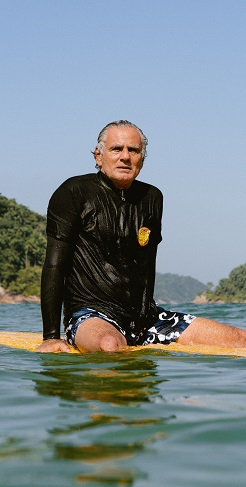
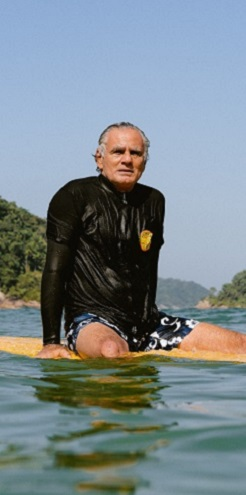
.

diff --git a/conteúdo.html b/conteúdo.html
@@ -30,8 +30,8 @@
                         </div>
 
                         <!-- Menos de 549px -->
-                        <div class="container-img-549px">
-                            <h1><img src="imagens/Guilherme cel.jpg" alt=""></h1>
+                        <div class="container-centro">
+                            <img src="imagens/Guilherme cel.jpg" alt="Guilherme">
                         </div>
                         <!-- ------------ -->
 
@@ -97,12 +97,13 @@
                     </div>
 
                     <!-- Menos de 549px -->
-                    <div class="container-ladoD">
-                        <h1><img src="imagens/campeonato lado D.jpg" alt="camp"></h1>
-                    </div>
                     <div class="container-espaço">
-                        <br></br>
+                        <br>
                     </div>
+                    <div class="container-ladoD">
+                        <img src="imagens/campeonato lado D.jpg" alt="camp">
+                    </div>
+                    
 
                     <!-- --------------------------------------------- -->
 
@@ -124,12 +125,11 @@
                     <div class="container-lateralE">
                         <p><strong>Se você quisesse surfar, teria <br>de fazer sua própria parafina, <br>não existia loja de surfe e nem muitos recursos relacionados ao esporte.</p>
                         <p><a href="https://www.instagram.com/fuad.mansur/#">Fuad</a> queria
-                        surfar, e juntamente de seus irmãos (<a href="https://www.instagram.com/fuwaxriodejaneiro/#">Wady</a> e <a href="https://www.instagram.com/eliasmansurf/?igshid=MzRIODBINWFIZA%3D%3D#">Elias</a>), começaram a fazer parafina como todo mundo que fosse entrar no mar com uma <br>prancha qualquer.</p>
+                        surfar, e juntamente de seus irmãos (<a href="https://www.instagram.com/fuwaxriodejaneiro/#">Wady</a> e <a href="https://www.instagram.com/eliasmansurf/?igshid=MzRIODBINWFIZA%3D%3D#">Elias</a>), começaram a fazer parafina como todo mundo que fosse entrar <br>no mar com uma <br>prancha qualquer.</p>
                     </div>
                     <div class="container-espaço">
-                        <br><br>
-                        </br>
-                        </div>
+                        <br>
+                    </div>
                     <div class="container-figGD1">
                         <figcaption>Campeonato estadual</figcaption>
                     </div>
@@ -197,7 +197,7 @@
                             <br>
                         </div>
                         <div class="container-centro">
-                            <p><strong><a href="https://www.instagram.com/fuad.mansur/#">Fuad</a> com sua obsessão pelo surfe, o fez determinado <br>em criar uma parafina superior, decidido a consultar um químico sobre a situação.</strong></p>
+                            <p><strong><a href="https://www.instagram.com/fuad.mansur/#">Fuad</a> com sua obsessão pelo surfe, o fez determinado <br>em criar uma parafina superior, <br>decidido a consultar um químico sobre a situação.</strong></p>
                         </div>
                         <div class="container-espaço">
                             <br>
@@ -254,8 +254,8 @@
 
                     <!-- Menos de 549px -->
                     <div class="container-centro">
-                        <p><strong>O profissional falou a respeito de um material secreto <br>que deveria ser testado na criação de sua parafina; resultando em um novo caminho pro jovem, <br>fazendo uma surf wax mais adequada <br>(porém não perfeita).</strong></p>
-                        <p><strong>além de impulsionado à inventar a marca "<a href="https://www.instagram.com/fu.wax/#">Fu Wax</a>" <br>e também, de abrir a primeira loja de surf do Brasil ("Mansurf").</strong></p>
+                        <p><strong>O profissional falou a respeito de um material secreto <br>que deveria ser testado na criação de sua parafina; <br>resultando em um novo caminho pro jovem, <br>fazendo uma surf wax mais adequada <br>(porém não perfeita).</strong></p>
+                        <p><strong>além de impulsionado à inventar a marca "<a href="https://www.instagram.com/fu.wax/#">Fu Wax</a>" <br>e também, de abrir a primeira loja de surf do Brasil <br>("Mansurf").</strong></p>
                     </div>
                     <div class="container-espaço">
                         <br></br>
@@ -301,10 +301,10 @@
 
                     <!-- Menos de 549px -->
                     <div class="container-ladoD">
-                        <h1><img src="imagens/Família.jpeg" alt="Família Mansur"></h1>
+                        <img src="imagens/Família.jpeg" alt="Família Mansur">
                     </div>
                     <div class="container-espaço">
-                        <br></br>
+                        <br>
                     </div>
 
                     <!-- -------------------------- -->
@@ -336,7 +336,7 @@
                         <br></br>
                     </div>
                     <div class="container-ladoE">
-                        <img src="imagens/Fuad surfando 2 cel.jpg" alt="Fuad Mansur">
+                        <img src="imagens/Fuad surfando 2.1 cel.jpg" alt="Fuad Mansur">
                     </div>
                     <div class="container-espaço">
                         <br></br>
@@ -503,7 +503,7 @@
                         <br>
                     </div>
                     <div class="container-centro">
-                        <h1><img src="imagens/aderência levada a sério cel.jpg" alt="camiseta"></h1>
+                        <img src="imagens/aderência levada a sério cel 2.jpg" alt="camiseta">
                     </div>
                     <div class="container-figGC3">
                         <figcaption> <a href="https://www.instagram.com/fu.wax/#"><u>Fu Wax</u></a> em colaboração com a <a href="https://www.billabong.com.br/masculino/vestuario/camiseta?&utm_source=google&utm_medium=Google_Branded_Billabong_Camisetasgclid=Cj0KCQjw7uSkBhDGARIsAMCZNJu_B9D71Kr2GOXzbHvSDQiGa9m94lq27spTUWXHAED9BsK_OJQ-9dsaAv_aEALw_wcB"><u>Billabong</u></a></figcaption>
@@ -760,6 +760,9 @@
                         <p><strong>Após ouvir rumores de <a href="https://www.instagram.com/tajamos/?hl=pt#">Taj</a>, <br>começou à optar pela Fu Wax, <br>através de recomendações do fenômeno <a href="https://www.instagram.com/koloheandino24/#">Kolohe</a>.</strong></p>
                         <p><strong>(<em class="filho4">"It`s so good, it feels like it`s just goo`ing everywhere!"</em>)</strong></p>
                     </div>
+                    <div class="container-espaço">
+                        <br>
+                    </div>
                     <div class="container-figGE4">
                         <figcaption><a href="https://www.instagram.com/koloheandino24/#"><u>Kolohe</u></a></figcaption>
                     </div>
@@ -788,6 +791,9 @@
                     </div>
                     <div class="container-centro">
                         <img src="imagens/Guilherme no caldeirão.jpg" alt="">
+                    </div>
+                    <div class="container-figGC4">
+                        <figcaption><a href="https://www.instagram.com/guimansurf/?hl=pt#"><u>Guilherme</u></a></figcaption>
                     </div>
                     <div class="container-espaço">
                         <br>
@@ -962,7 +968,7 @@
 
                     <!-- Menos de 549px -->
                     <div class="container-centro">
-                        <p>Existem <a href="cont.html">6 tipos</a> de Fu Wax (7 contando com a <a href="conteúdoSkinPack.html">Skin Pack</a>), feitas pelas mãos de apenas 3 pessoas: <br>fundador <a href="https://www.instagram.com/fuad.mansur/#">Fuad</a>, irmão <a href="https://www.instagram.com/tuca_mansur/?igshid=MzRIODBINWFIZA%3D%3D#">Tuca</a> e filho <a href="https://www.instagram.com/guimansurf/?hl=pt#">Guilherme</a> <br>(Sendo os únicos a saber qual a fórmula secreta.)</strong></p>
+                        <p>Existem <a href="cont.html">6 tipos</a> de Fu Wax (7 contando com a <a href="conteúdoSkinPack.html">Skin Pack</a>), <br>feitas pelas mãos de apenas 3 pessoas: <br>fundador <a href="https://www.instagram.com/fuad.mansur/#">Fuad</a>, irmão <a href="https://www.instagram.com/tuca_mansur/?igshid=MzRIODBINWFIZA%3D%3D#">Tuca</a> e filho <a href="https://www.instagram.com/guimansurf/?hl=pt#">Guilherme</a> <br>(Sendo os únicos a saber qual a fórmula secreta.)</strong></p>
                     </div>
                     <div class="container-espaço">
                         <br></br>
@@ -998,7 +1004,7 @@
                     <div class="container-filho4-549px">
                         <em class="filho4"><h4>"It`s like drugs or something, you have to have it."</h4>
                     </div></em>
-                    <div class="container-figGC4">
+                    <div class="container-figGC5">
                         <figcaption>- <a href="https://www.instagram.com/koloheandino24/#"><u>Kolohe Andino</u></a> em 2011</figcaption>
                     </div>
                     <div class="container-espaço">

diff --git a/estilo.css b/estilo.css
@@ -302,7 +302,7 @@ a:hover {
         border: 3px solid rgb(136, 0, 0);
     }
 
-    .container-figGC3{
+    .container-figGC3 {
         text-align: center;
         margin-left: 19%;
         margin-right: 19%;
@@ -317,6 +317,20 @@ a:hover {
     }
 
     .container-figGC4 {
+        text-align: center;
+        margin-left: 40%;
+        margin-right: 40%;
+        padding-left: px;
+        padding-right: 0px;
+        padding-top: 2px;
+        padding-bottom: 1px;
+        font-size: 1.35em;
+        color: rgb(255, 255, 255);
+        background: #000000;
+        border: 3px solid rgb(136, 0, 0);
+    }
+
+    .container-figGC5 {
         text-align: center;
         font-size: 1.24em;
         margin-right: 32%;
@@ -378,8 +392,6 @@ a:hover {
 
     .container-centro {
         text-align: center;
-        padding-left: 25px;
-        padding-right: 25px;
     }
 
     .container-espaço {
